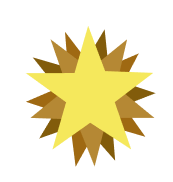
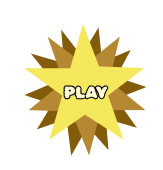
fixed switching of modes, added new images of stars, and alo made medium and easy mode from code of hard mode

diff --git a/main.py b/main.py
@@ -36,14 +36,14 @@ class Verba:
         #this is so that I can like make two codes so that like I am able to do the light and dark mode things
         self.mode="darkmode"
         self.assets={"darkmode":{"background":"backstar.png","star":"dstar.png","moon":"dmoon.png","sun":"dsun.png","bgc":"#363636","bgt":"white"},
-                     "lightmode":{"background":"lbg.png","star":"lstar.png","moon":"lmoon.png","sun":"lsun.png","bgc":"#D3D3D3","bgt":"#2E2E2E"}}
+                     "lightmode":{"background":"lbg.png","star":"lstar.png","moon":"lmoon.png","sun":"lsun.png","bgc":"#DBDBDB","bgt":"#2E2E2E"}}
 
         # background image for my home page and the directory for it, side note - remember to leave bg in top of code so that it would be placed behind other functions
-        self.data = self.assets[self.mode]
-        self.HomePagebg = PhotoImage(file=str(self.img / self.data["background"]))
-        self.star = PhotoImage(file=str(self.img / self.data["star"]))
-        self.sun = PhotoImage(file=str(self.img / self.data["sun"]))
-        self.moon = PhotoImage(file=str(self.img / self.data["moon"]))
+        data = self.assets[self.mode]
+        self.HomePagebg = PhotoImage(file=str(self.img / data["background"]))
+        self.star = PhotoImage(file=str(self.img / data["star"]))
+        self.sun = PhotoImage(file=str(self.img / data["sun"]))
+        self.moon = PhotoImage(file=str(self.img / data["moon"]))
         self.starhover = PhotoImage(file=str(self.img/"dstar.png"))
 
         #this makes it so that I am able to like link all the font thingy and make it work in windows/the cheatsheet for easy acess
@@ -54,39 +54,54 @@ class Verba:
 
 
         #Code for my title in the home page
-        self.my_label = tk.Label(self.Home, image=self.HomePagebg, bd=0,)
+        self.my_label = tk.Label(self.Home, image=self.HomePagebg, bd=0,bg=data["bgc"],fg=data["bgt"]) #remember what the code purpose was (maybe text idk)
         self.my_label.place(x=0, y=0, relwidth=1, relheight=1)
-        self.home_label = tk.Label(self.Home, text="Stella Verba", font=("Rubik Bubbles",33),bg=self.data["bgc"],fg=self.data["bgt"] )
+        # The code for the "StellaVerba text in homgpage
+        self.home_label = tk.Label(self.Home, text="Stella Verba", font=("Rubik Bubbles",33),bg=data["bgc"],fg=data["bgt"] )
         self.home_label.pack()
 
+#Code for the star button and the hover effect and stuff
 #Code for the button in the home page that leads the user to the difficulty selection page - and also make
 # it so that it doesn't have any brick effect and when you hover over the button it makes a pointer effect to indicate it's a button
-        self.starb = tk.Label(self.Home, image=self.star, bg="#363636", bd=0, cursor="hand2")
+        self.starb = tk.Label(self.Home, image=self.star, bd=0, cursor="hand2",bg=data["bgc"], text="PLAY")
         self.starb.place(relx=0.425, rely=0.5, relwidth=0.15, relheight=0.2)
-        self.starb.bind("<ButtonRelease-1>", lambda e: self.Home_Diff())
-
-        #Code for the sun and moon buttons which is the buttons for the light and dark mode
-        #releif makes it so that there is no more button brick effect and cursor 2 makes the cursor point when it hovers over the button
-        self.lightbutton = tk.Button(self.Home, image=self.sun,command=lambda: self.load_button("lightmode"), bd=0, highlightthickness=0, relief="flat", cursor="hand2",bg=self.data["bgc"],activebackground=self.data["bgc"])
-        self.lightbutton.place(relx=0.25, rely=0.05)
-        #code so that there is an image that would be played for a hover effect before the user click on the button to make it more aesthetic
         def hover_in(event):self.starb.config(image=self.starhover)
         def hover_out(event):self.starb.config(image=self.star)
         self.starb.bind("<Enter>", hover_in)
         self.starb.bind("<Leave>", hover_out)
         self.starb.bind("<ButtonRelease-1>", lambda e: self.Home_Diff())
 
-        self.darkbutton = tk.Button(self.Home, image=self.moon,command=lambda: self.load_button("darkmode"),bd=0, highlightthickness=0, relief="flat", cursor="hand2",bg=self.data["bgc"],activebackground=self.data["bgc"])
+        #Code for the sun and moon buttons which is the buttons for the light and dark mode
+        #releif makes it so that there is no more button brick effect and cursor 2 makes the cursor point when it hovers over the button
+        self.lightbutton = tk.Button(self.Home, image=self.sun,command=lambda: self.load_button("lightmode"), bd=0, highlightthickness=0, relief="flat", cursor="hand2",bg=data["bgc"],activebackground=data["bgc"])
+        self.lightbutton.place(relx=0.25, rely=0.05)
+        #code so that there is an image that would be played for a hover effect before the user click on the button to make it more aesthetic
+
+
+        self.darkbutton = tk.Button(self.Home, image=self.moon,command=lambda: self.load_button("darkmode"),bd=0, highlightthickness=0, relief="flat", cursor="hand2",bg=data["bgc"],activebackground=data["bgc"])
         self.darkbutton.place(relx=0.70, rely=0.05)
 
         #Design for Difficulty Selection Page
         self.diff_bg = tk.Label(self.Difficulty, image=self.HomePagebg, bd=0)
         self.diff_bg.place(x=0, y=0, relwidth=1, relheight=1)
-        self.diff_label = tk.Label(self.Difficulty, text="DIFFICULTY SELECTION", font=("Rubik Bubbles",50),bg=self.data["bgc"],fg=self.data["bgt"]  )
+        self.diff_label = tk.Label(self.Difficulty, text="DIFFICULTY SELECTION", font=("Rubik Bubbles",50),bg=data["bgc"],fg=data["bgt"]  )
         self.diff_label.pack()
+
 #button for the hard mode difficulty in the difficluty page
-        button = tk.Button(self.Difficulty, text="Hard", width = 25,command=self.Diff_Game,bg="#CE2727", font=("Inter",25))
-        button.place(relx=0.25,rely=0.2,relwidth=0.1,relheight=0.1)
+        self.hardbutton = tk.Button(self.Difficulty, text="Hard", width = 25,command=self.Diff_GameH,bg="#CE2727", font=("Inter",20,"bold"))
+        self.hardbutton.place(relx=0.25,rely=0.2,relwidth=0.1,relheight=0.1)
+        self.hardbutton.bind("<Enter>", lambda e: self.hardbutton.config(bg="#FF4C4C"))
+        self.hardbutton.bind("<Leave>", lambda e: self.hardbutton.config(bg="#CE2727"))
+
+        self.mediumbutton = tk.Button(self.Difficulty, text="Medium", width = 25,command=self.Diff_GameH,bg="#CE2727", font=("Inter",20,"bold"))
+        self.mediumbutton.place(relx=0.25,rely=0.4,relwidth=0.1,relheight=0.1)
+        self.mediumbutton.bind("<Enter>", lambda e: self.mediumbutton.config(bg="#FF4C4C"))
+        self.mediumbutton.bind("<Leave>", lambda e: self.mediumbutton.config(bg="#CE2727"))
+
+        self.easybutton = tk.Button(self.Difficulty, text="Easy", width = 25,command=self.Diff_GameH,bg="#CE2727", font=("Inter",20,"bold"))
+        self.easybutton.place(relx=0.25,rely=0.6,relwidth=0.1,relheight=0.1)
+        self.easybutton.bind("<Enter>", lambda e: self.easybutton.config(bg="#FF4C4C"))
+        self.easybutton.bind("<Leave>", lambda e: self.easybutton.config(bg="#CE2727"))
 
 
         self.Home.pack(fill="both", expand=True)
@@ -100,22 +115,45 @@ class Verba:
         self.Home.pack_forget()
         self.Difficulty.pack(fill="both", expand=True)
 
-    def Diff_Game(self):
+    def Diff_GameH(self):
+        self.Difficulty.pack_forget()
+        self.Game.pack(fill="both", expand=True)
+
+    def Diff_GameM(self):
+        self.Difficulty.pack_forget()
+        self.Game.pack(fill="both", expand=True)
+
+    def Diff_GameE(self):
         self.Difficulty.pack_forget()
         self.Game.pack(fill="both", expand=True)
 
     def load_button(self,mode):
         self.mode=mode
-        self.my_label.config(image=self.HomePagebg,bg=self.data["bgc"])
-        self.diff_bg.config(image=self.HomePagebg,bg=self.data["bgc"],fg=self.data["bgt"] )
-        self.starb.config(image=self.star,bg=self.data["bgc"])
-        self.lightbutton.config(image=self.sun,bg=self.data["bgc"],activebackground=self.data["bgc"] )
-        self.darkbutton.config(image=self.moon,bg=self.data["bgc"],activebackground=self.data["bgc"])
+        data=self.assets[mode]
+        self.HomePagebg = PhotoImage(file=str(self.img / data["background"])) #The bg for home and diff
+        self.star = PhotoImage(file=str(self.img / data["star"])) #star img of button
+        self.sun = PhotoImage(file=str(self.img / data["sun"])) #sun img of button
+        self.moon = PhotoImage(file=str(self.img / data["moon"])) #moon img button
+        self.starhover = PhotoImage(file=str(self.img / "hstar.png")) #the hover image that it switches to
+        #The actual pages
+        self.Home.config(bg=data["bgc"])
+        self.Difficulty.config(bg=data["bgc"])
+        self.diff_bg.config(image=self.HomePagebg,bg=data["bgc"],fg=data["bgt"] )
+        #all the labels and text
+        self.my_label.config(image=self.HomePagebg, bg=data["bgc"])
+        self.home_label.config(bg=data["bgc"], fg=data["bgt"])
+        self.diff_label.config(bg=data["bgc"], fg=data["bgt"])
+        #The buttons for the home page eg the sun the star and the moon
+        self.starb.config(image=self.star,bg=data["bgc"])
+        self.lightbutton.config(image=self.sun,bg=data["bgc"],activebackground=data["bgc"])
+        self.darkbutton.config(image=self.moon,bg=data["bgc"],activebackground=data["bgc"])
+#The difficulty buttons
+
+
 
 root=tk.Tk()
 app=Verba(root)
 root.mainloop()
-
 
 
 